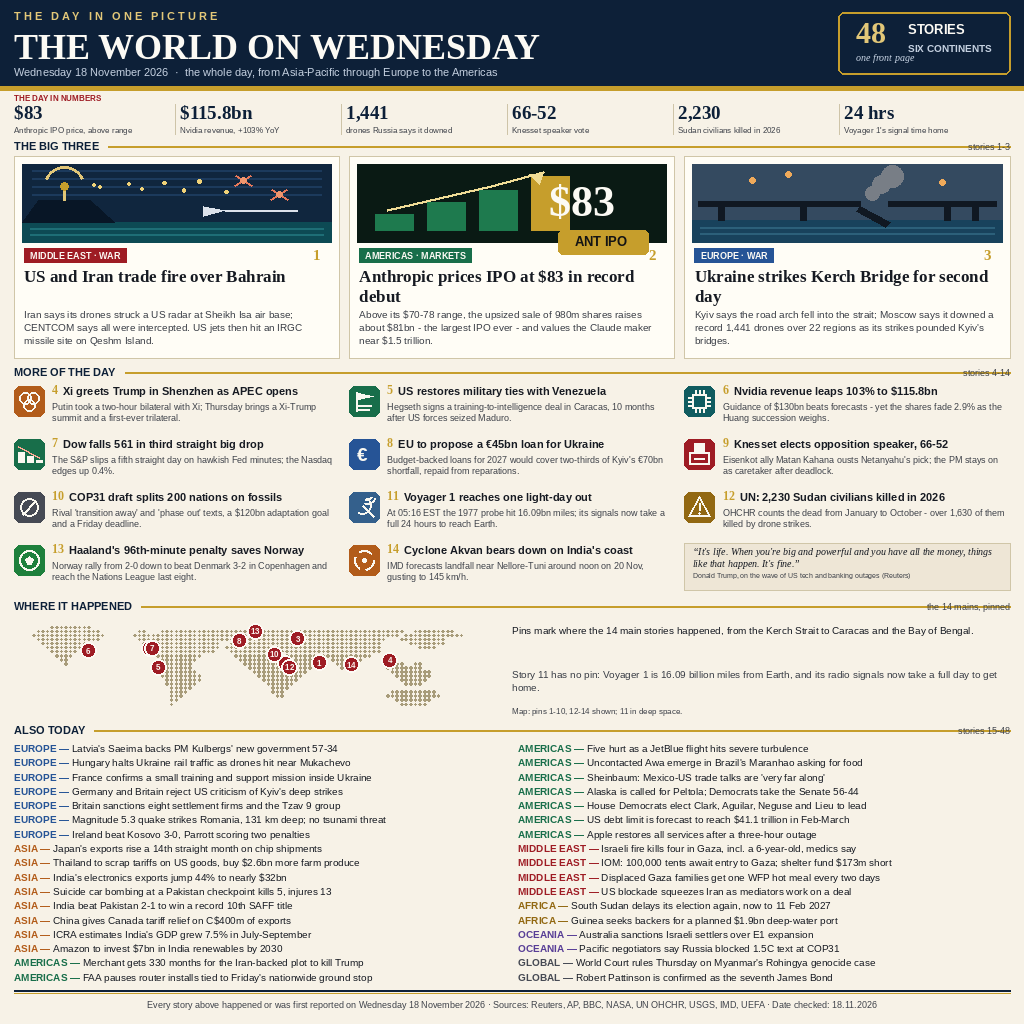
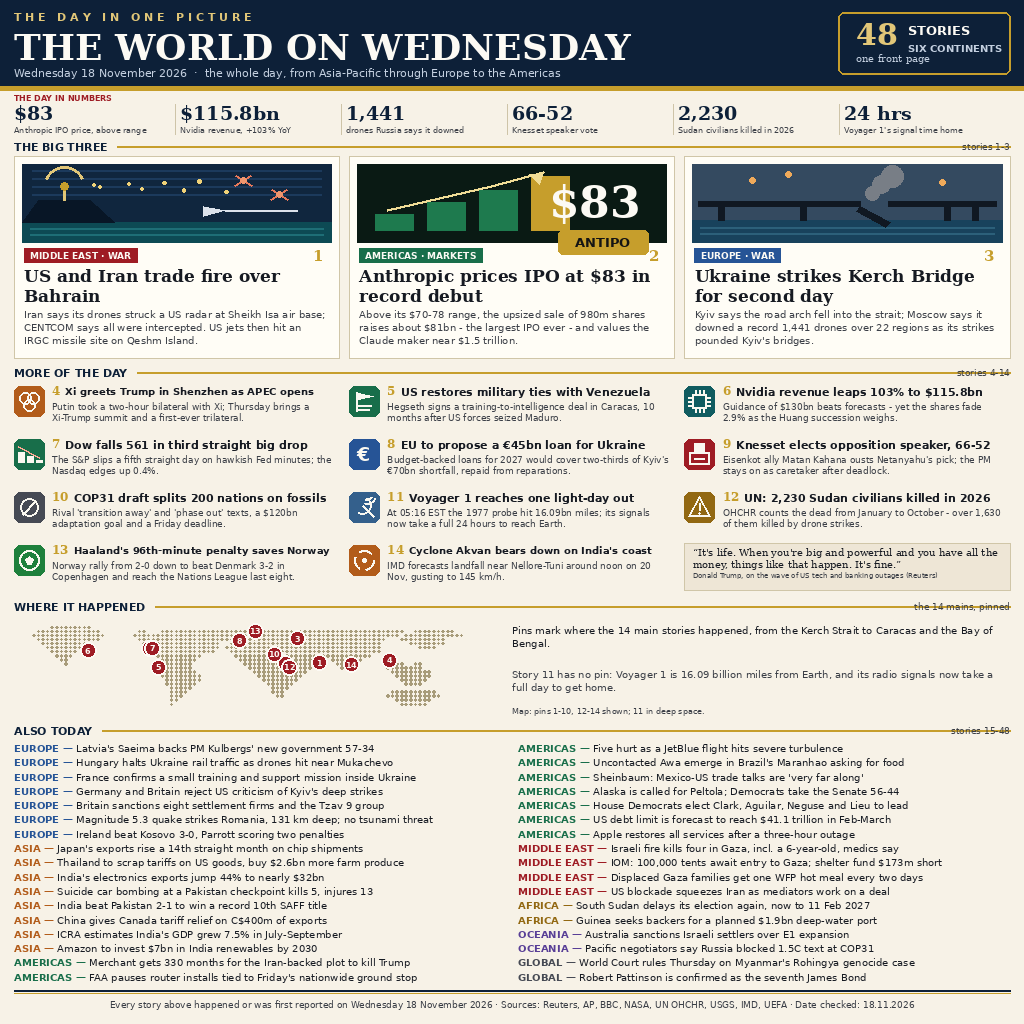
Fix fonts to DejaVu (pod-safe) and re-render

diff --git a/draw.py b/draw.py
@@ -36,11 +36,11 @@ REGION_COLORS = {
 }
 
 _FONT_DIR = "/usr/share/fonts/truetype"
-SERIF_B = _FONT_DIR + "/liberation/LiberationSerif-Bold.ttf"
-SERIF_R = _FONT_DIR + "/liberation/LiberationSerif-Regular.ttf"
-SERIF_I = _FONT_DIR + "/liberation/LiberationSerif-Italic.ttf"
-SANS_B = _FONT_DIR + "/liberation/LiberationSans-Bold.ttf"
-SANS_R = _FONT_DIR + "/liberation/LiberationSans-Regular.ttf"
+SERIF_B = "/usr/share/fonts/truetype/dejavu/DejaVuSerif-Bold.ttf"
+SERIF_R = "/usr/share/fonts/truetype/dejavu/DejaVuSerif.ttf"
+SERIF_I = "/usr/share/fonts/truetype/dejavu/DejaVuSerif.ttf"
+SANS_B = "/usr/share/fonts/truetype/dejavu/DejaVuSans-Bold.ttf"
+SANS_R = "/usr/share/fonts/truetype/dejavu/DejaVuSans.ttf"
 
 
 def font(path, size):
